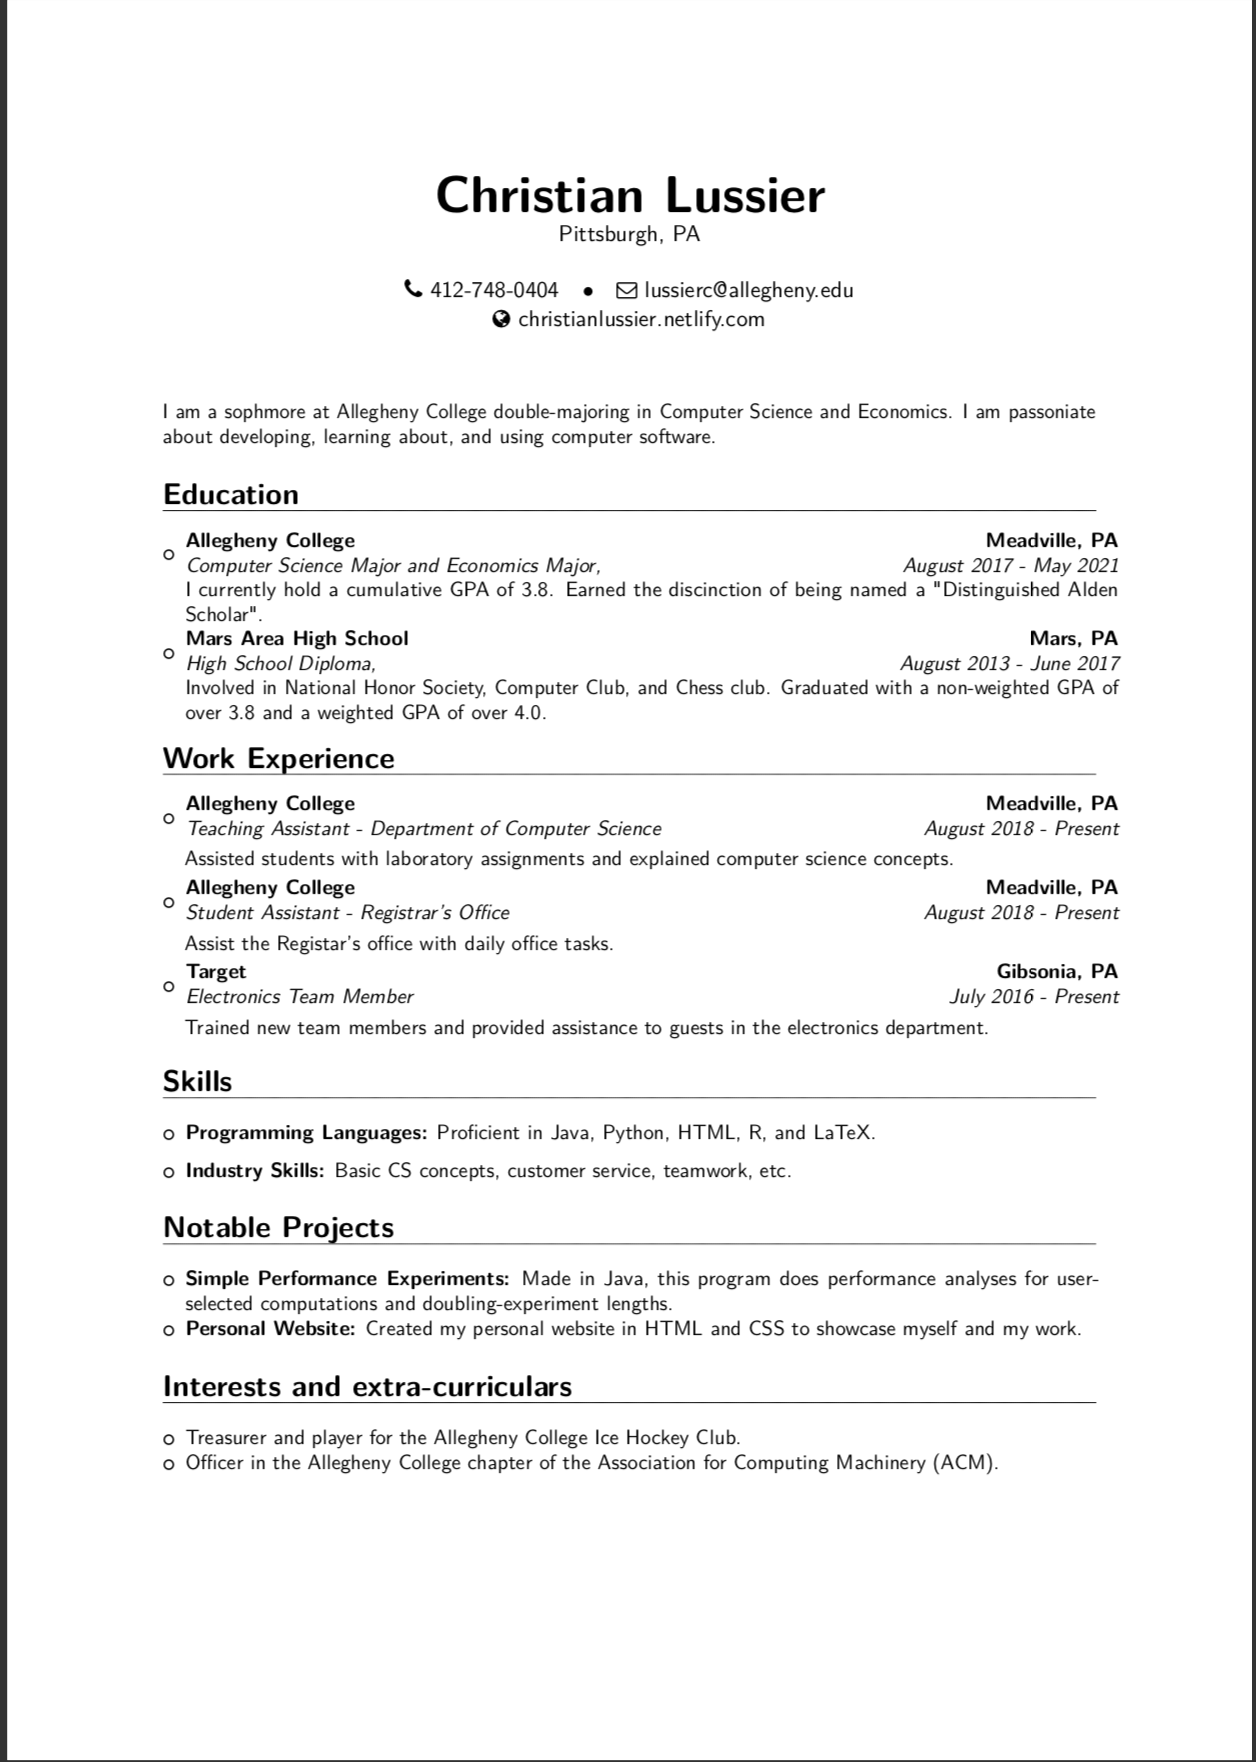
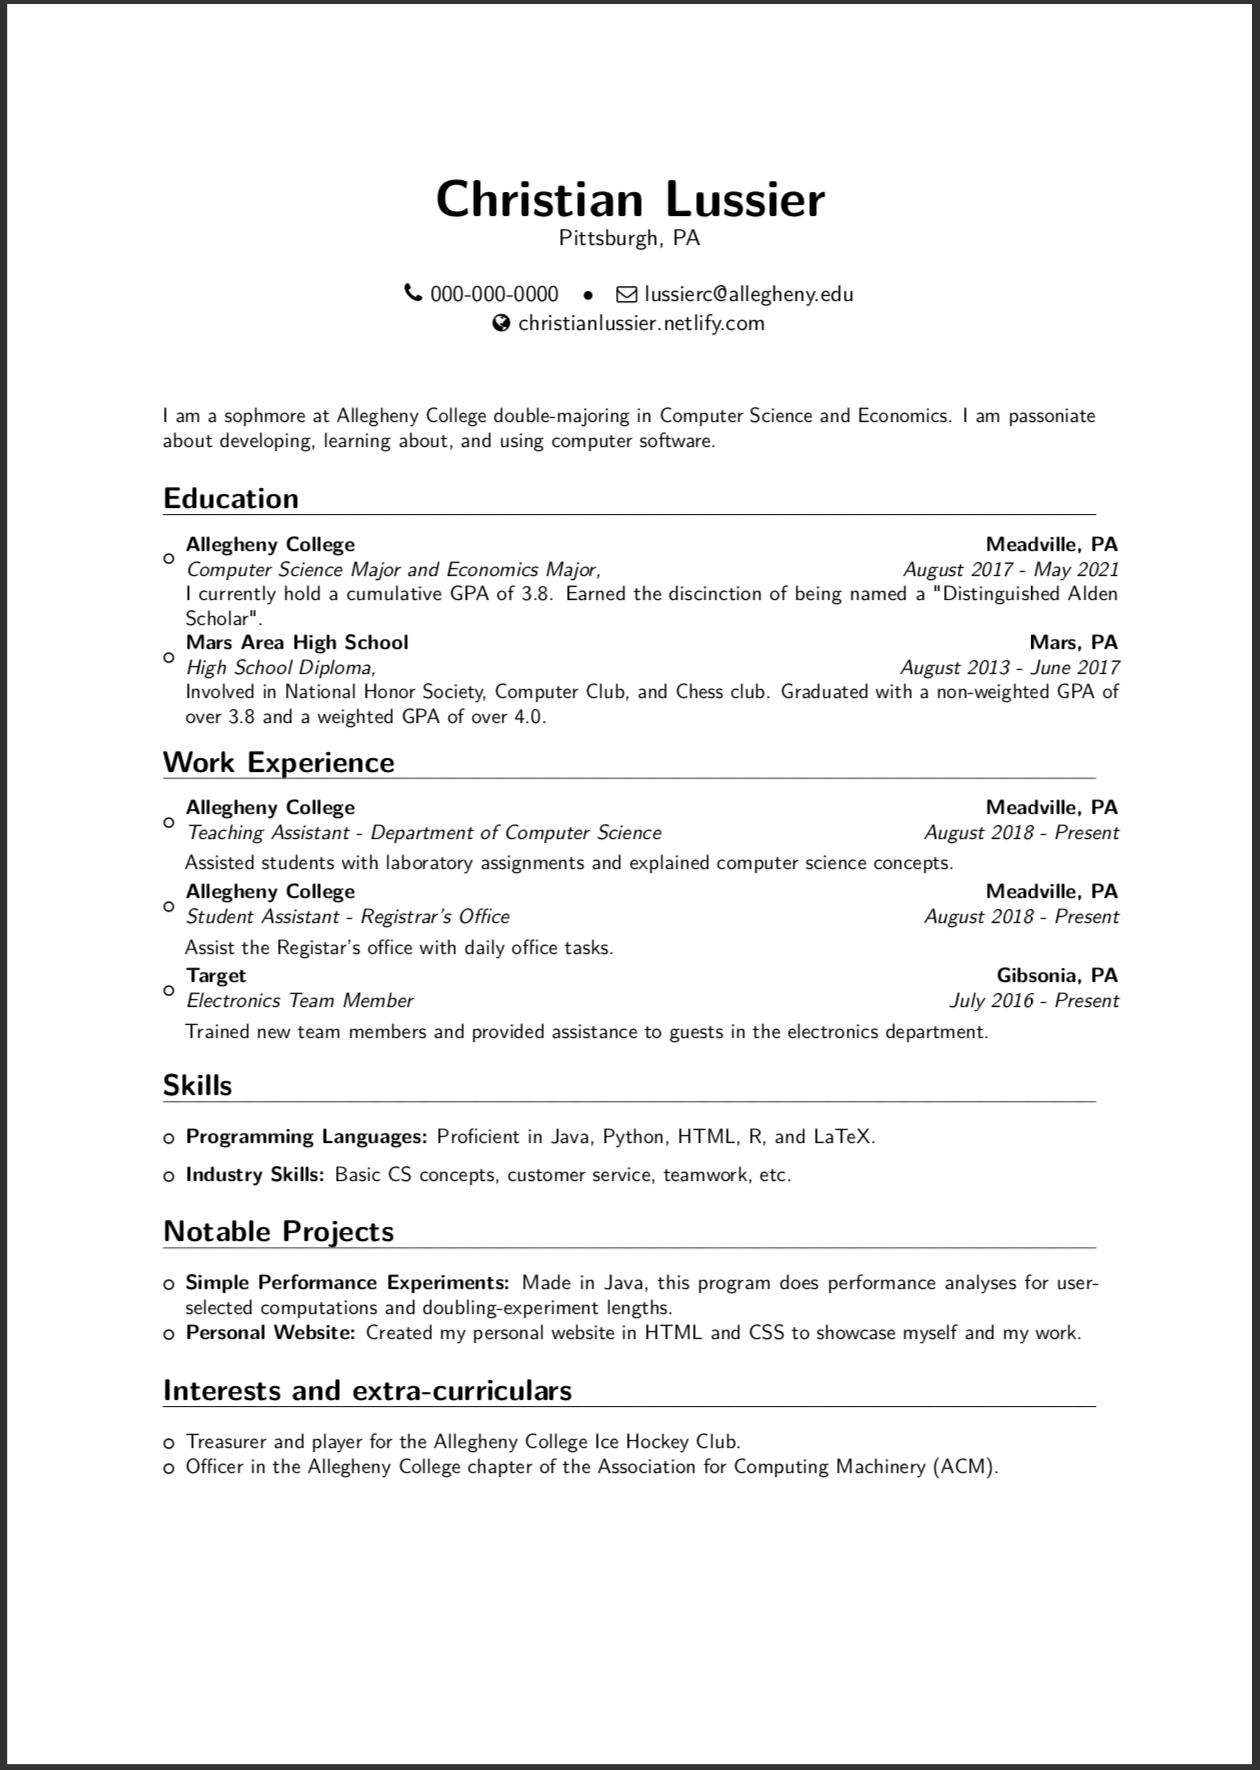
Updated the README to reflect this change.

Changed region(s): [[0.1242, 0.2185, 0.9005, 0.8428], [0.0, 0.0, 1.0, 1.0], [0.3416, 0.0936, 0.6831, 0.1873]]

diff --git a/README.md b/README.md
@@ -8,5 +8,8 @@ This repository holds the files related to my resume which was coded in LaTeX.
 ## Overview
 ![A Picture Of My Resume](images/resPic.png)
 
+## Please Note
+I have removed my phone number from this open-source version of my resume for privacy reasons. If you need to get in contact with me please email me or message & we can go from there.
+
 ## Usage
-Feel free to use my resume as a template for your own, but be sure to change all of the information on it. To acquire it, download the files or clone it.
+Feel free to use this resume as a template for your own, but be sure to change all of the information on it. To acquire it, download the files or clone it.
